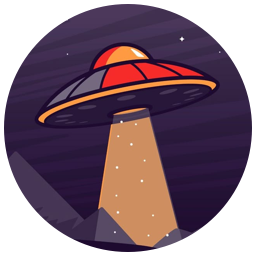
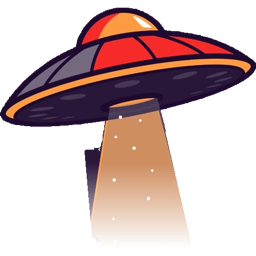
Level Pass: choose your ship, cut-out ships, visible flight, test switch

diff --git a/Sources/ClaudeSchedule/Galaxy/LevelPass.swift b/Sources/ClaudeSchedule/Galaxy/LevelPass.swift
@@ -12,12 +12,14 @@ struct LevelPassView: View {
     @State private var justClaimed: Int?
     /// How far the user moved the view away from the ship
     @State private var look: CGFloat = 0
+    /// The level the view is centred on
+    @State private var cameraAt: Double = 1
     @GestureState private var dragging: CGFloat = 0
     @State private var hovering = false
     @State private var monitor: Any?
 
     private func clampLook(_ x: CGFloat) -> CGFloat {
-        let ship = Self.spacing * CGFloat(shipAt - 1)
+        let ship = Self.spacing * CGFloat(cameraAt - 1)
         return min(ship + 300, max(ship - Self.spacing * CGFloat(Self.maxLevel - 1) - 300, x))
     }
 
@@ -31,7 +33,9 @@ struct LevelPassView: View {
         min(Double(maxLevel), 1 + hours / GalaxyProgress.hoursPerLevel)
     }
 
-    static func shipImage(level: Int) -> String { level <= 20 ? "pass_ship1" : level <= 40 ? "pass_ship2" : "pass_ship3" }
+    /// Which of the three ships you fly (your choice, kept on this Mac)
+    @AppStorage("passShip") private var ship = 1
+    static func shipImage(_ n: Int) -> String { "pass_ship\(min(3, max(1, n)))" }
 
     var body: some View {
         let p = progress
@@ -41,7 +45,7 @@ struct LevelPassView: View {
             // The camera follows the ship; drag, scroll wheel or trackpad to look along the line
             GeometryReader { geo in
                 track(p)
-                    .offset(x: geo.size.width / 2 - Self.spacing * CGFloat(shipAt - 1) + look + dragging)
+                    .offset(x: geo.size.width / 2 - Self.spacing * CGFloat(cameraAt - 1) + look + dragging)
                     .frame(width: geo.size.width, height: geo.size.height, alignment: .leading)
                     .contentShape(Rectangle())
                     .gesture(DragGesture(minimumDistance: 4)
@@ -53,9 +57,14 @@ struct LevelPassView: View {
             .onHover { hovering = $0 }
             .onAppear {
                 let target = Self.position(hours: p.totalHours)
-                shipAt = fromHours.map(Self.position(hours:)) ?? target
-                // Fly forward to where you are now
-                withAnimation(.spring(duration: 1.6, bounce: 0.15).delay(0.35)) { shipAt = target }
+                let start = fromHours.map(Self.position(hours:)) ?? target
+                shipAt = start
+                // The view holds between start and finish (so you see the ship fly), then settles on the ship
+                cameraAt = abs(target - start) <= 5 ? (start + target) / 2 : start
+                withAnimation(.easeInOut(duration: 2.4).delay(0.9)) { shipAt = target }
+                if abs(target - start) > 5 {
+                    withAnimation(.easeInOut(duration: 2.4).delay(1.1)) { cameraAt = target }
+                }
                 monitor = NSEvent.addLocalMonitorForEvents(matching: .scrollWheel) { e in
                     guard hovering else { return e }
                     let d = abs(e.scrollingDeltaX) > abs(e.scrollingDeltaY) ? e.scrollingDeltaX : e.scrollingDeltaY
@@ -84,6 +93,22 @@ struct LevelPassView: View {
                 Text("Every 3 hours of study is a level. Click a reward to take it.").font(.caption).foregroundStyle(.secondary)
             }
             Spacer()
+            // pick your ship
+            HStack(spacing: 4) {
+                ForEach(1...3, id: \.self) { n in
+                    Button { withAnimation(.spring(duration: 0.3)) { ship = n } } label: {
+                        Group {
+                            if let img = PlanetPainter.bundleImage(Self.shipImage(n)) { Image(nsImage: img).resizable() } else { Text("🛸") }
+                        }
+                        .frame(width: 34, height: 34)
+                        .padding(3)
+                        .background(RoundedRectangle(cornerRadius: 8).fill(ship == n ? Color.orange.opacity(0.25) : Color.white.opacity(0.05)))
+                        .overlay(RoundedRectangle(cornerRadius: 8).strokeBorder(ship == n ? Color.orange : .clear, lineWidth: 1.5))
+                    }
+                    .buttonStyle(.plain)
+                    .help("Fly ship \(n)")
+                }
+            }
             HStack(spacing: 6) {
                 RocketIcon(size: 18)
                 Text(store.rocketBalance.formatted()).font(.title3.weight(.bold).monospacedDigit())
@@ -120,9 +145,8 @@ struct LevelPassView: View {
             TimelineView(.animation(minimumInterval: 1 / 30)) { tl in
                 let bob = sin(tl.date.timeIntervalSinceReferenceDate * 2.2) * 4
                 VStack(spacing: 2) {
-                    if let img = PlanetPainter.bundleImage(Self.shipImage(level: Int(shipAt))) {
-                        Image(nsImage: img).resizable().interpolation(.high).frame(width: 64, height: 64)
-                            .shadow(color: .cyan.opacity(0.6), radius: 10)
+                    if let img = PlanetPainter.bundleImage(Self.shipImage(ship)) {
+                        Image(nsImage: img).resizable().interpolation(.high).frame(width: 78, height: 78)
                     } else {
                         Text("🛸").font(.system(size: 44))
                     }
@@ -130,7 +154,7 @@ struct LevelPassView: View {
                         .background(Capsule().fill(.orange))
                     Image(systemName: "arrowtriangle.down.fill").font(.system(size: 9)).foregroundStyle(.orange)
                 }
-                .offset(x: shipX - 32, y: 14 + bob)
+                .offset(x: shipX - 39, y: 4 + bob)
             }
         }
         .frame(width: width, height: 320, alignment: .topLeading)

diff --git a/Sources/ClaudeSchedule/Views/ContentView.swift b/Sources/ClaudeSchedule/Views/ContentView.swift
@@ -80,6 +80,13 @@ struct ContentView: View {
                 page
             }
         }
+        // Developer tool: CS_TEST_PASS=2 opens the Level Pass as if 2 hours were just studied
+        .onAppear {
+            if let h = ProcessInfo.processInfo.environment["CS_TEST_PASS"].flatMap(Double.init) {
+                let total = store.sessions.reduce(0) { $0 + $1.duration } / 3600
+                store.passMoment = PassMoment(fromHours: max(0, total - h), toHours: total)
+            }
+        }
         // After a study session: the ship flies along the Level Pass
         .sheet(item: Binding(get: { store.passMoment }, set: { store.passMoment = $0 })) { m in
             LevelPassView(fromHours: m.fromHours)
